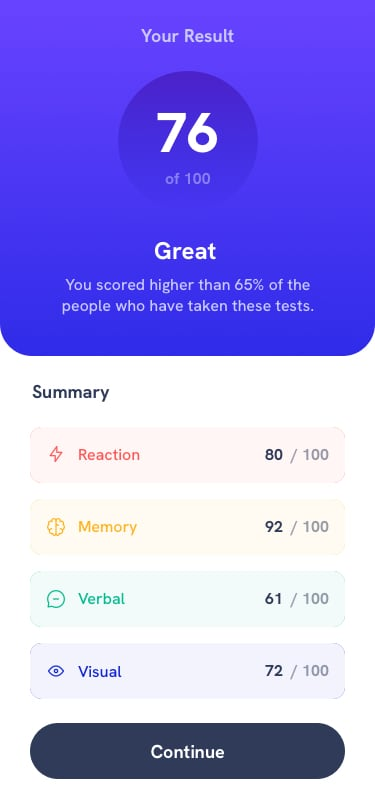
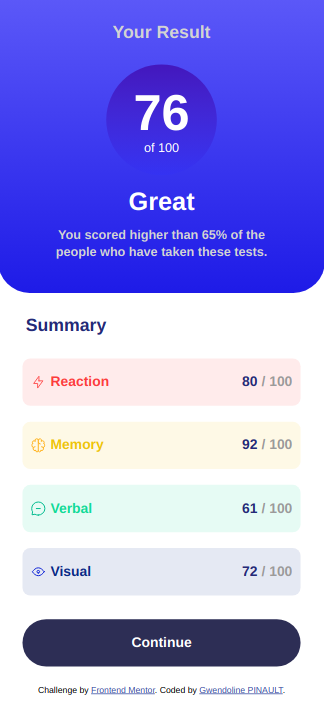
feat/readme

diff --git a/style.css b/style.css
@@ -12,7 +12,7 @@ body {
 }
 
 .result-summary {
-  width: 50%;
+  width: 40%;
   border-radius: 15px;
   background-color: white;
   display: flex;
@@ -168,7 +168,7 @@ body {
   text-align: center;
 }
 
-@media screen and (max-width: 950px) {
+@media screen and (max-width: 950px) and (min-width: 350px) {
   body {
     margin: 0;
     display: flex;
@@ -187,7 +187,7 @@ body {
   }
 
   .user-result {
-    width: 100vw;
+    width: 100%;
     margin: auto;
     border-radius: 0 0 40px 40px;
     margin: 0 0 10px;
@@ -228,6 +228,6 @@ body {
 
   .attribution {
     position: absolute;
-    bottom: 5px;
+    bottom: 15px;
   }
 }

diff --git a/README.md b/README.md
@@ -1,96 +1,51 @@
-# Frontend Mentor - Results summary component
+# Frontend Mentor Challenge - Results summary component
 
-![Design preview for the Results summary component coding challenge](./design/desktop-preview.jpg)
+This is my solution to the [Results summary component challenge on Frontend Mentor](https://www.frontendmentor.io/challenges/results-summary-component-CE_K6s0maV). I dit it to check my coding skills.
 
-## Welcome! 👋
+## Table of contents
+- [Frontend Mentor Challenge - Results summary component](#frontend-mentor-challenge---results-summary-component)
+  - [Table of contents](#table-of-contents)
+  - [Overview](#overview)
+    - [The challenge](#the-challenge)
+    - [Screenshot](#screenshot)
+      - [Desktop design](#desktop-design)
+      - [Mobile design](#mobile-design)
+  - [My process](#my-process)
+    - [Built with](#built-with)
+    - [Why I did this challenge](#why-i-did-this-challenge)
+  - [Author](#author)
 
-Thanks for checking out this front-end coding challenge.
+## Overview
 
-[Frontend Mentor](https://www.frontendmentor.io) challenges help you improve your coding skills by building realistic projects.
+### The challenge
 
-**To do this challenge, you need a basic understanding of HTML and CSS.**
+Users should be able to see the interface on desktop or mobile screen.
 
-## The challenge
+### Screenshot
 
-Your challenge is to build out this results summary component and get it looking as close to the design as possible.
+#### Desktop design
+![Desktop version](./design/desktop-design.jpg)
 
-You can use any tools you like to help you complete the challenge. So if you've got something you'd like to practice, feel free to give it a go.
+#### Mobile design
+![Mobile version](./design/mobile-design.jpg)
 
-We provide the data for the results in a local `data.json` file. So you can use that to add the results and total score dynamically if you choose.
+## My process
 
-Your users should be able to:
+### Built with
 
-- View the optimal layout for the interface depending on their device's screen size
-- See hover and focus states for all interactive elements on the page
+- Semantic HTML5 markup
+- CSS custom properties
+- Flexbox
+- Media queries
 
-Want some support on the challenge? [Join our Slack community](https://www.frontendmentor.io/slack) and ask questions in the **#help** channel.
+### Why I did this challenge
 
-## Where to find everything
+I'm doing a development formation to become a web developer. I wanted to check my new knowledge by doing this challenge.
 
-Your task is to build out the project to the designs inside the `/design` folder. You will find both a mobile and a desktop version of the design. 
+I did most of the challenge fiew months ago, just after my courses. I finished it today by adding the media queries. A first, it wasn't so easy, but now I've improved my CSS skills ans flexboxes doesn't seems so complicated anymore.
 
-The designs are in JPG static format. Using JPGs will mean that you'll need to use your best judgment for styles such as `font-size`, `padding` and `margin`. 
+Now, it's your turn to challenge you, good luck !
 
-If you would like the design files (we provide Sketch & Figma versions) to inspect the design in more detail, you can [subscribe as a PRO member](https://www.frontendmentor.io/pro).
+## Author
 
-All the required assets for this project are in the `/assets` folder. The images are already exported for the correct screen size and optimized.
-
-We also include variable and static font files for the required fonts for this project. You can choose to either link to Google Fonts or use the local font files to host the fonts yourself. Note that we've removed the static font files for the font weights that aren't needed for this project.
-
-There is also a `style-guide.md` file containing the information you'll need, such as color palette and fonts.
-
-## Building your project
-
-Feel free to use any workflow that you feel comfortable with. Below is a suggested process, but do not feel like you need to follow these steps:
-
-1. Initialize your project as a public repository on [GitHub](https://github.com/). Creating a repo will make it easier to share your code with the community if you need help. If you're not sure how to do this, [have a read-through of this Try Git resource](https://try.github.io/).
-2. Configure your repository to publish your code to a web address. This will also be useful if you need some help during a challenge as you can share the URL for your project with your repo URL. There are a number of ways to do this, and we provide some recommendations below.
-3. Look through the designs to start planning out how you'll tackle the project. This step is crucial to help you think ahead for CSS classes to create reusable styles.
-4. Before adding any styles, structure your content with HTML. Writing your HTML first can help focus your attention on creating well-structured content.
-5. Write out the base styles for your project, including general content styles, such as `font-family` and `font-size`.
-6. Start adding styles to the top of the page and work down. Only move on to the next section once you're happy you've completed the area you're working on.
-
-## Deploying your project
-
-As mentioned above, there are many ways to host your project for free. Our recommend hosts are:
-
-- [GitHub Pages](https://pages.github.com/)
-- [Vercel](https://vercel.com/)
-- [Netlify](https://www.netlify.com/)
-
-You can host your site using one of these solutions or any of our other trusted providers. [Read more about our recommended and trusted hosts](https://medium.com/frontend-mentor/frontend-mentor-trusted-hosting-providers-bf000dfebe).
-
-## Create a custom `README.md`
-
-We strongly recommend overwriting this `README.md` with a custom one. We've provided a template inside the [`README-template.md`](./README-template.md) file in this starter code.
-
-The template provides a guide for what to add. A custom `README` will help you explain your project and reflect on your learnings. Please feel free to edit our template as much as you like.
-
-Once you've added your information to the template, delete this file and rename the `README-template.md` file to `README.md`. That will make it show up as your repository's README file.
-
-## Submitting your solution
-
-Submit your solution on the platform for the rest of the community to see. Follow our ["Complete guide to submitting solutions"](https://medium.com/frontend-mentor/a-complete-guide-to-submitting-solutions-on-frontend-mentor-ac6384162248) for tips on how to do this.
-
-Remember, if you're looking for feedback on your solution, be sure to ask questions when submitting it. The more specific and detailed you are with your questions, the higher the chance you'll get valuable feedback from the community.
-
-## Sharing your solution
-
-There are multiple places you can share your solution:
-
-1. Share your solution page in the **#finished-projects** channel of the [Slack community](https://www.frontendmentor.io/slack). 
-2. Tweet [@frontendmentor](https://twitter.com/frontendmentor) and mention **@frontendmentor**, including the repo and live URLs in the tweet. We'd love to take a look at what you've built and help share it around.
-3. Share your solution on other social channels like LinkedIn.
-4. Blog about your experience building your project. Writing about your workflow, technical choices, and talking through your code is a brilliant way to reinforce what you've learned. Great platforms to write on are [dev.to](https://dev.to/), [Hashnode](https://hashnode.com/), and [CodeNewbie](https://community.codenewbie.org/).
-
-We provide templates to help you share your solution once you've submitted it on the platform. Please do edit them and include specific questions when you're looking for feedback. 
-
-The more specific you are with your questions the more likely it is that another member of the community will give you feedback.
-
-## Got feedback for us?
-
-We love receiving feedback! We're always looking to improve our challenges and our platform. So if you have anything you'd like to mention, please email hi[at]frontendmentor[dot]io.
-
-This challenge is completely free. Please share it with anyone who will find it useful for practice.
-
-**Have fun building!** 🚀
+- GitHub - [@Gwendoline-Pinault](https://github.com/Gwendoline-Pinault/results-summary-component-main)
